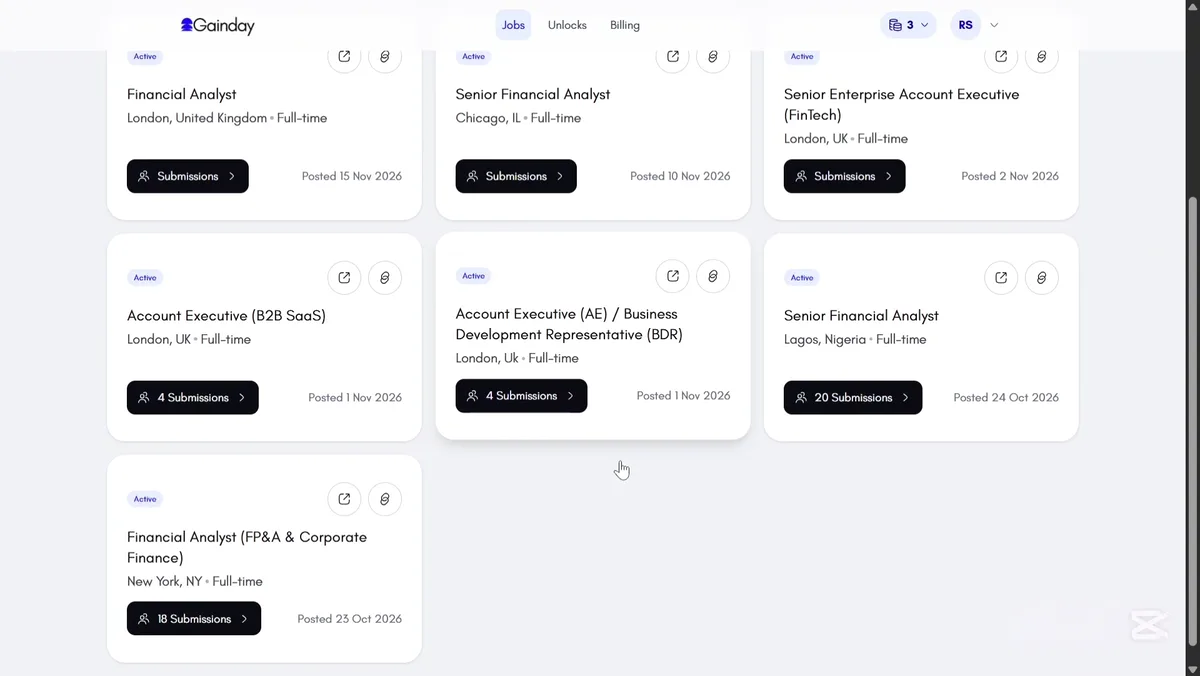
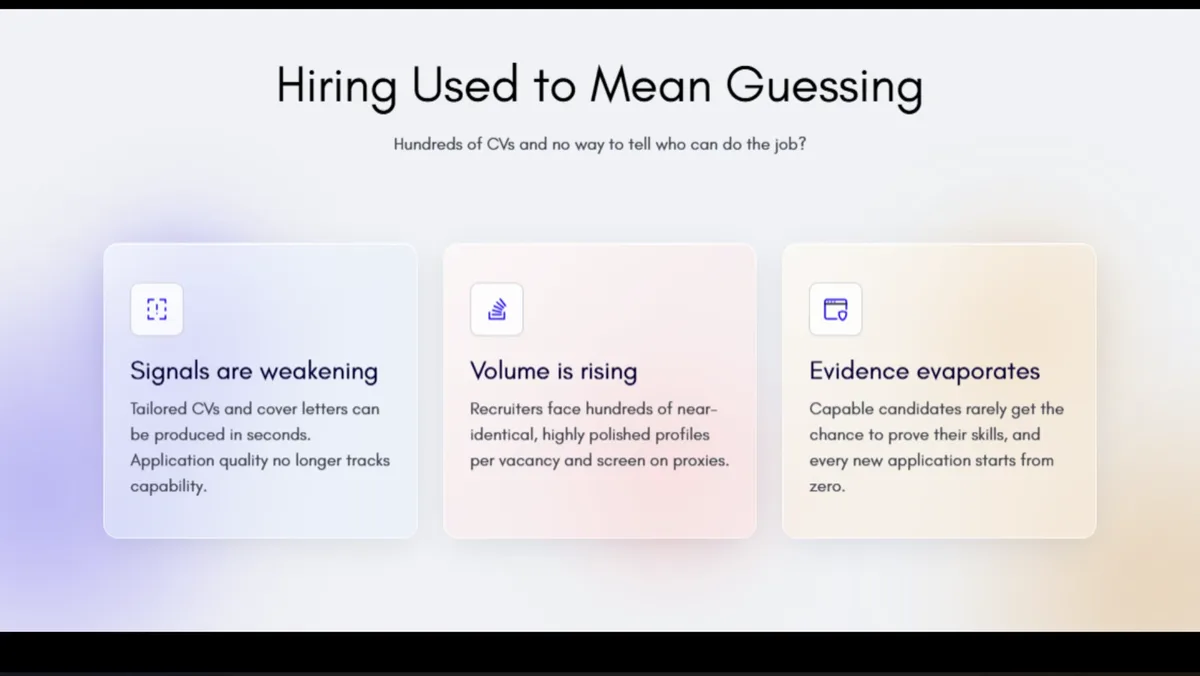
feat(landing): play the combined demo in the hero and candidate sections
Hero plays the whole file; candidate plays 13.5 s to 42.0 s of the same file. Autoplay starts muted because browsers block autoplay with sound. Removed the floating animation on the hero frame so the controls don't drift, and updated browser mockup URLs to gainday.org.

diff --git a/src/features/landing/components/HeroDemo.tsx b/src/features/landing/components/HeroDemo.tsx
@@ -1,14 +1,10 @@
-import { useRef, useState } from "react";
+import { useState } from "react";
 import { ChevronLeft, Lock, Plus } from "@/components/ui/icons";
 import { GlowOrb } from "./GlowOrb";
 import GradientCard from "./GradientCard";
 import { GradientFrame } from "./GradientFrame";
-import { useAutoplayInView } from "../utils/useAutoplayInView";
-
-// Must match the encoded video: width 1200, height from ffprobe (676 for a 1920x1080 source scaled to 1200:-2).
-const VIDEO_WIDTH = 1200;
-const VIDEO_HEIGHT = 676;
-const POSTER = "/media/hero-demo-poster.webp";
+import { DemoPlayer } from "./DemoPlayer";
+import { DEMO_VIDEO, HERO_POSTER } from "../utils/demoVideo";
 
 const FRAME_WIDTH = 560;
 const u = (px: number) => `${(px / FRAME_WIDTH) * 100}cqw`;
@@ -44,7 +40,7 @@ const BrowserToolbar = () => (
         >
             <img src="/gainday_icon.svg" alt="" style={{ width: u(6.14), height: u(6.14) }} />
             <span className="whitespace-nowrap leading-none" style={{ fontSize: u(4.99) }}>
-                gainday.com/employer/jobs
+                gainday.org/employer/jobs
             </span>
             <Lock style={{ width: u(3.6), height: u(3.6) }} />
         </div>
@@ -53,13 +49,11 @@ const BrowserToolbar = () => (
     </div>
 );
 
-// Plays only while visible, shows just the poster for reduced-motion users, and falls back to
-// the gradient card if the video can't load, so the hero never looks broken.
+// Plays the whole recording, and falls back to the gradient card if the video can't load, so the
+// hero never looks broken. (The old floating animation on the frame was removed: the frame now has
+// clickable controls and shouldn't drift under the cursor.)
 export const HeroDemo = () => {
-    const videoRef = useRef<HTMLVideoElement>(null);
     const [failed, setFailed] = useState(false);
-
-    useAutoplayInView(videoRef);
 
     return (
         <div className="relative isolate">
@@ -69,32 +63,18 @@ export const HeroDemo = () => {
             {failed ? (
                 <GradientCard />
             ) : (
-                <GradientFrame
-                    designWidth={FRAME_WIDTH}
-                    angle={156.49}
-                    padX={19}
-                    padY={27.93}
-                    className="animate-float-soft motion-reduce:animate-none"
-                >
+                <GradientFrame designWidth={FRAME_WIDTH} angle={156.49} padX={19} padY={27.93}>
                     <div className="overflow-hidden" style={{ borderRadius: u(4.66), filter: SHADOW }}>
                         <BrowserToolbar />
-                        <video
-                            ref={videoRef}
-                            className="block w-full object-cover"
-                            style={{ aspectRatio: `${VIDEO_WIDTH} / ${VIDEO_HEIGHT}` }}
-                            width={VIDEO_WIDTH}
-                            height={VIDEO_HEIGHT}
-                            poster={POSTER}
-                            muted
-                            loop
-                            playsInline
+                        <DemoPlayer
+                            sources={DEMO_VIDEO.sources}
+                            poster={HERO_POSTER}
+                            width={DEMO_VIDEO.width}
+                            height={DEMO_VIDEO.height}
+                            label="Product demo: an employer posts a job, reviews candidate submissions and shortlists top performers"
                             preload="metadata"
-                            aria-label="Short demo: an employer posts a job, reviews candidate submissions and shortlists top performers"
-                        >
-                            <source src="/media/hero-demo.webm" type="video/webm" />
-                            {/* Errors fire on <source>, not <video>. The last source failing means nothing can play. */}
-                            <source src="/media/hero-demo.mp4" type="video/mp4" onError={() => setFailed(true)} />
-                        </video>
+                            onUnavailable={() => setFailed(true)}
+                        />
                     </div>
                 </GradientFrame>
             )}

diff --git a/src/features/landing/components/CandidateDemo.tsx b/src/features/landing/components/CandidateDemo.tsx
@@ -1,21 +1,15 @@
-import { useRef, useState } from "react";
+import { useState } from "react";
 import { BrowserMockup } from "./BrowserMockup";
-import { useAutoplayInView } from "../utils/useAutoplayInView";
-
-// Must match the encoded candidate-demo output: 1000×562 (1920x1080 source scaled to 1000:-2).
-const VIDEO_WIDTH = 1000;
-const VIDEO_HEIGHT = 562;
+import { DemoPlayer } from "./DemoPlayer";
+import { CANDIDATE_POSTER, CANDIDATE_SEGMENT, DEMO_VIDEO } from "../utils/demoVideo";
 
 /**
- * Candidate job-board / simulation demo video inside a browser mockup.
- * Plays only while in view, respects reduced-motion, and falls back to
- * the cta.jpg hero image if the video cannot load.
+ * Candidate job-board / simulation demo inside a browser mockup. It plays only the candidate part of
+ * the shared recording (see CANDIDATE_SEGMENT), and falls back to the cta.jpg image if the video
+ * cannot load.
  */
 export const CandidateDemo = () => {
-    const videoRef = useRef<HTMLVideoElement>(null);
     const [failed, setFailed] = useState(false);
-
-    useAutoplayInView(videoRef);
 
     if (failed) {
         return (
@@ -30,25 +24,18 @@ export const CandidateDemo = () => {
     }
 
     return (
-        <BrowserMockup url="gainday.com/job-board">
-            <video
-                ref={videoRef}
-                className="block w-full object-cover"
-                style={{ aspectRatio: `${VIDEO_WIDTH} / ${VIDEO_HEIGHT}` }}
-                width={VIDEO_WIDTH}
-                height={VIDEO_HEIGHT}
-                poster="/media/candidate-demo-poster.webp"
-                muted
-                loop
-                playsInline
-                preload="metadata"
-                aria-label="Short demo: a candidate browses the job board, opens a role and completes a work simulation"
-            >
-                <source src="/media/candidate-demo.webm" type="video/webm" />
-                {/* Errors fire on <source>, not <video>. The last source failing means nothing can play. */}
-                <source src="/media/candidate-demo.mp4" type="video/mp4" onError={() => setFailed(true)} />
-            </video>
+        <BrowserMockup url="gainday.org/job-board">
+            <DemoPlayer
+                sources={DEMO_VIDEO.sources}
+                poster={CANDIDATE_POSTER}
+                width={DEMO_VIDEO.width}
+                height={DEMO_VIDEO.height}
+                start={CANDIDATE_SEGMENT.start}
+                end={CANDIDATE_SEGMENT.end}
+                label="Product demo: a candidate browses the job board, opens a role and completes a work simulation"
+                preload="none"
+                onUnavailable={() => setFailed(true)}
+            />
         </BrowserMockup>
     );
 };
-
